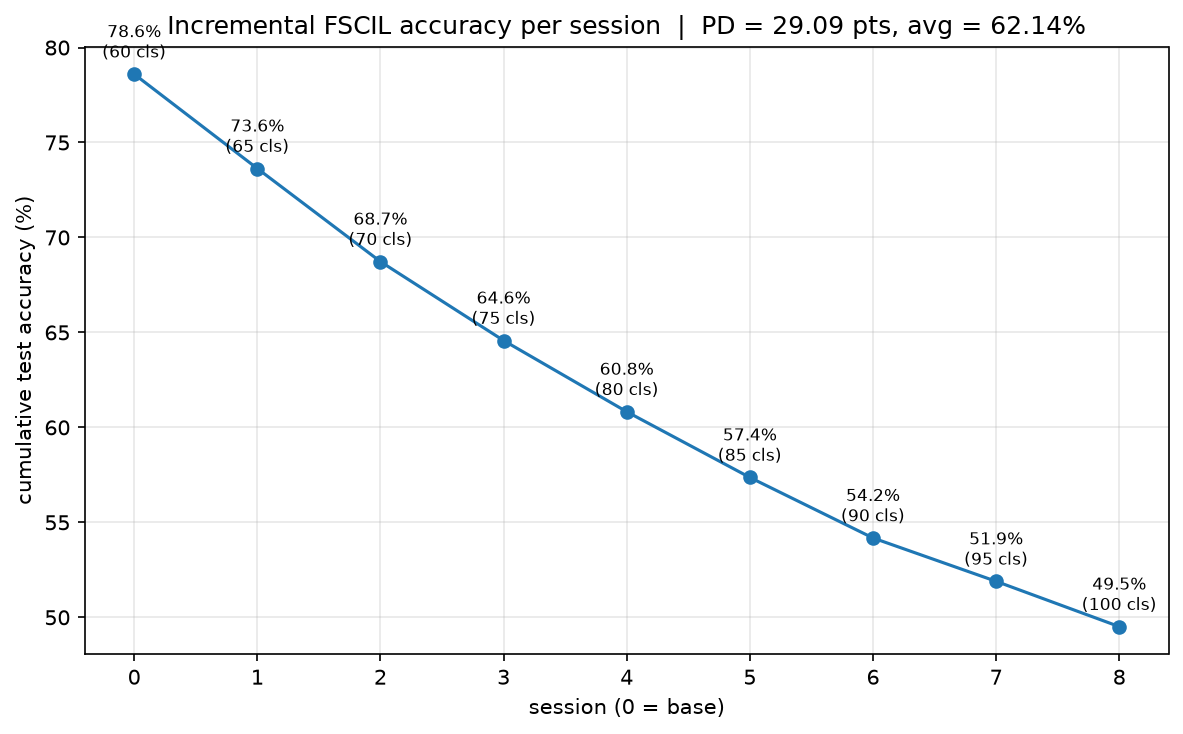
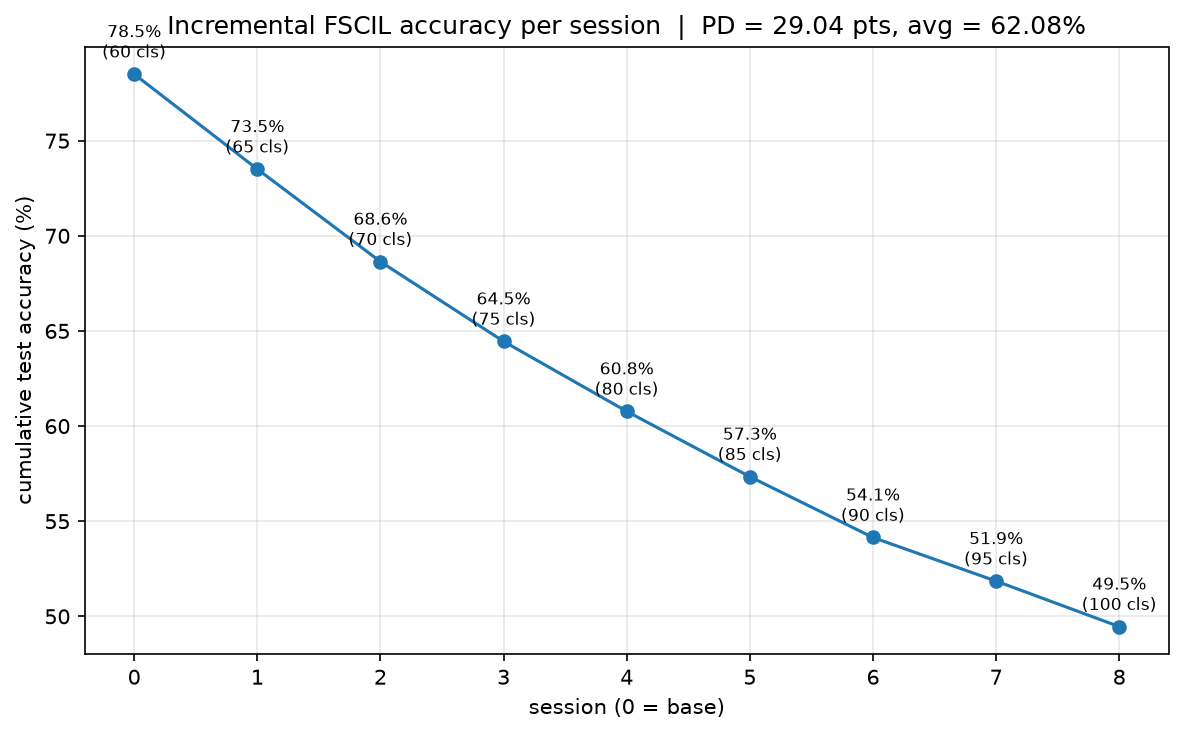
CIFAR-100 ablate-agedecay (rescored) result: base 78.50%, final 49.46%, PD 29.04, avg 62.08%, A_B 70.15%, A_N 18.43%, HM 29.18%
Auto-committed by the training orchestrator.

Claude-Session: https://claude.ai/code/session_01GDGJYxSeGz7wbgpdPrPcEm

diff --git a/results/REPORT.md b/results/REPORT.md
@@ -1,6 +1,6 @@
 # STAG-STI — Results & Analysis
 
-_Generated 2026-09-08 18:52 • auto-updated as runs complete._
+_Generated 2026-09-08 18:53 • auto-updated as runs complete._
 
 ## In-domain results
 
@@ -32,7 +32,7 @@ _CUB-200 baselines from the Review-1 deck; CIFAR-100 / miniImageNet baselines ar
 | Full model | 78.22 | 49.53 | 28.69 | 62.08 |
 | − supcon | 78.53 | 49.28 | 29.25 | 62.00 |
 | − topology | 77.75 | 49.69 | 28.06 | 61.65 |
-| − agedecay | 78.60 | 49.51 | 29.09 | 62.14 |
+| − agedecay | 78.50 | 49.46 | 29.04 | 62.08 |
 
 ## Per-session curves
 
